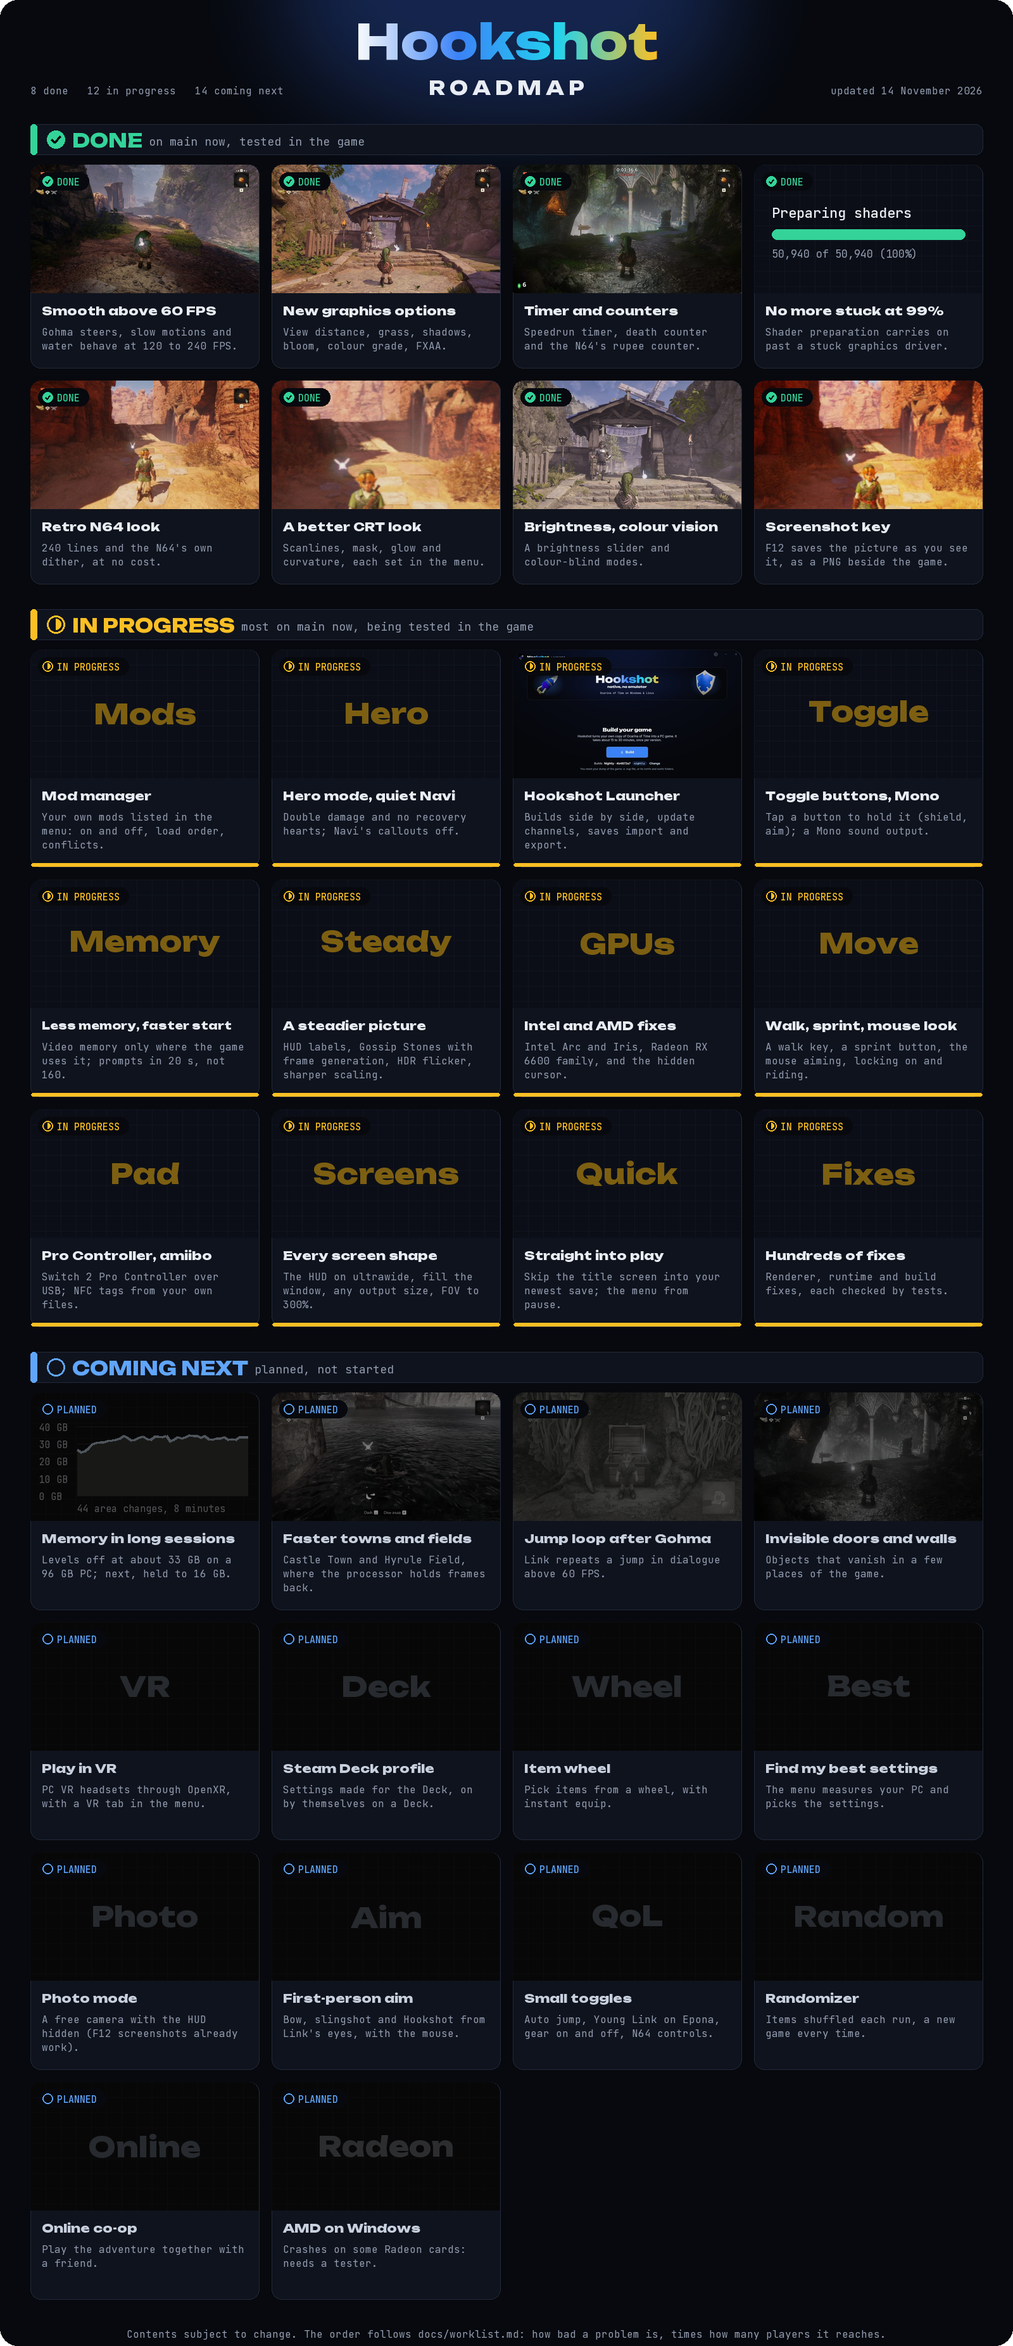
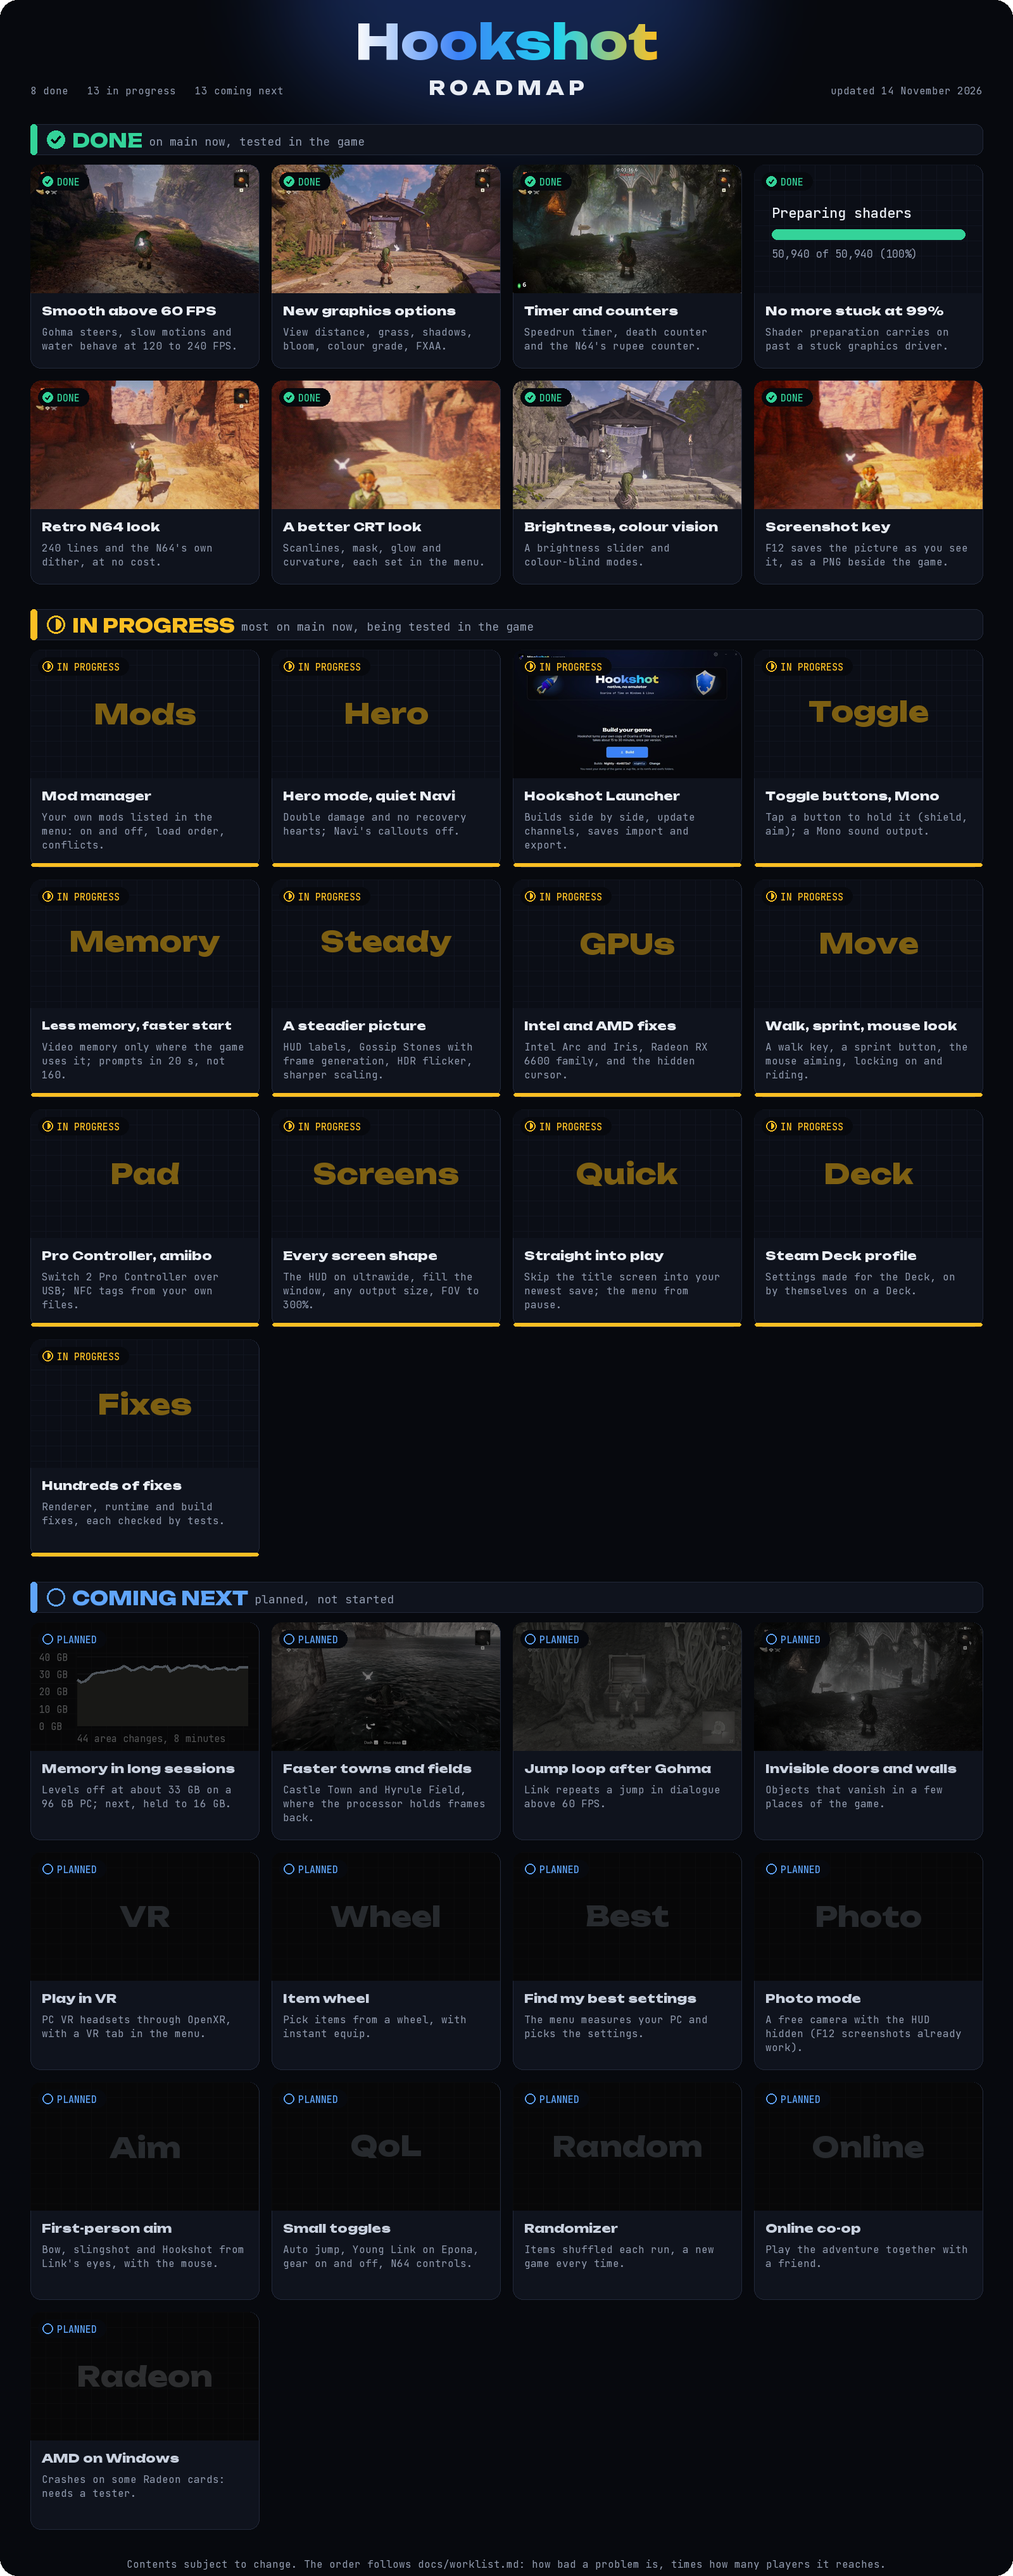
docs(roadmap): the Steam Deck profile is on main, in testing

diff --git a/scripts/make_roadmap.py b/scripts/make_roadmap.py
@@ -45,6 +45,7 @@ STAGES = [
         ("panel:name:Pad", "Pro Controller, amiibo", "Switch 2 Pro Controller over USB; NFC tags from your own files."),
         ("panel:name:Screens", "Every screen shape", "The HUD on ultrawide, fill the window, any output size, FOV to 300%."),
         ("panel:name:Quick", "Straight into play", "Skip the title screen into your newest save; the menu from pause."),
+        ("panel:name:Deck", "Steam Deck profile", "Settings made for the Deck, on by themselves on a Deck."),
         ("panel:name:Fixes", "Hundreds of fixes", "Renderer, runtime and build fixes, each checked by tests."),
     ]),
     ("next", "COMING NEXT", "planned, not started", BLUE, [
@@ -53,7 +54,6 @@ STAGES = [
         ("gohma.jpg", "Jump loop after Gohma", "Link repeats a jump in dialogue above 60 FPS."),
         ("invisible.jpg", "Invisible doors and walls", "Objects that vanish in a few places of the game."),
         ("panel:name:VR", "Play in VR", "PC VR headsets through OpenXR, with a VR tab in the menu."),
-        ("panel:name:Deck", "Steam Deck profile", "Settings made for the Deck, on by themselves on a Deck."),
         ("panel:name:Wheel", "Item wheel", "Pick items from a wheel, with instant equip."),
         ("panel:name:Best", "Find my best settings", "The menu measures your PC and picks the settings."),
         ("panel:name:Photo", "Photo mode", "A free camera with the HUD hidden (F12 screenshots already work)."),

diff --git a/readme.md b/readme.md
@@ -123,6 +123,7 @@ a full build through it is the next test.
   picture is larger than the window; the button prompts ready in about 20 s instead of 160; a new install starts at the
   game's 2560x1440
 - **Intel and AMD fixes:** Intel Arc and Iris, the Radeon RX 6600 family; the mouse cursor hidden in play
+- **Steam Deck profile:** settings made for the Deck, on by themselves on a Deck
 
 <img src="docs/images/features/field-of-view.jpg" alt="Kakariko Village at field of view 60 percent, the game's 100 percent and 140 percent">
 
@@ -187,7 +188,7 @@ when the game closes.
 ## Roadmap
 
 <p align="center">
-  <img src="assets/brand/roadmap.png" alt="Hookshot roadmap: 8 done, 12 in progress, 14 coming next, each as a card. The same items are listed as text below." width="820">
+  <img src="assets/brand/roadmap.png" alt="Hookshot roadmap: 8 done, 13 in progress, 13 coming next, each as a card. The same items are listed as text below." width="820">
 </p>
 
 **Done** is on `main` now. **In progress** is being worked on at the moment. **Coming next** is planned but not
@@ -224,6 +225,7 @@ reaches.
 - **A steadier picture:** HUD labels that stay sharp, the Gossip Stones whole with frame generation, no HDR flicker,
   sharper scaling when the picture is larger than the window
 - **Intel and AMD fixes:** Intel Arc and Iris, the Radeon RX 6600 family; the mouse cursor hidden in play
+- **Steam Deck profile:** settings made for the Deck, on by themselves on a Deck
 - **Walk, sprint and mouse look:** a walk key, a sprint button, and the mouse for aiming, locking on and riding
 - **Pro Controller and amiibo:** the Switch 2 Pro Controller over USB, and NFC tags from your own files
 - **Every screen shape:** the HUD placed right on ultrawide screens, filling the window, any output size, field of view
@@ -239,7 +241,6 @@ reaches.
 - **Jump loop after Gohma:** Link repeating a jump in dialogue above 60 FPS
 - **Invisible doors and walls** in a few places of the game
 - **Play in VR:** PC VR headsets through OpenXR, with a VR tab in the menu
-- **Steam Deck profile:** settings made for the Deck, on by themselves on a Deck
 - **Item wheel:** pick items from a wheel, with instant equip
 - **Find my best settings:** the menu measures your PC and picks the settings
 - **Photo mode:** a free camera with the HUD hidden (F12 screenshots already work)
